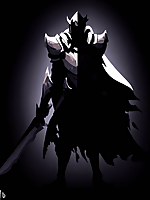
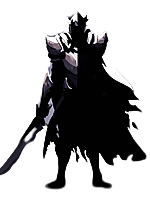
addi game mechanics, death of the hero + add creation hero when account register

diff --git a/src/Controller/api/GameController.php b/src/Controller/api/GameController.php
@@ -586,7 +586,7 @@ class GameController extends CoreApiController
         $data = [
             'currentEvent' => $eventA,
             'npcCurrentEvent' => $arrayNpc,
-            'currentEvent-Ending' => $contentEndingCurrent,
+            'currentEventEnding' => $contentEndingCurrent,
             'EndBiome' => $dataForFront
         ];
 
@@ -706,7 +706,7 @@ class GameController extends CoreApiController
         $data = [
             'currentEvent' => $eventA,
             'npcCurrentEvent' => $arrayNpc,
-            'currentEvent-Ending' => $contentEndingCurrent,
+            'currentEventEnding' => $contentEndingCurrent,
             'EndGame' => $dataForFront
         ];
 
@@ -791,7 +791,9 @@ class GameController extends CoreApiController
     public function eventEffect(
         $id,
         EffectRepository $effectRepository,
-        HeroRepository $heroRepository
+        HeroRepository $heroRepository,
+        EventTypeRepository $eventTypeRepository,
+        EventRepository $eventRepository
     ): JsonResponse {
 
         /** @var App\Entity\User $user */
@@ -801,6 +803,7 @@ class GameController extends CoreApiController
 
         $effect = $effectRepository->findOneBy(['id' => $id]);
 
+        // * Applying Effect to Player ($hero)
         if ($effect->getHealth()) {
             $hero->setHealth($hero->getHealth() + $effect->getHealth());
 
@@ -827,21 +830,30 @@ class GameController extends CoreApiController
             $hero->setXp($hero->getXp() + $effect->getXp());
         }
 
+        // Saving Hero in Database
         $heroRepository->add($hero, true);
 
+        // * Hero Dies, Death Event needed
+        $eventTypeDeath = $eventTypeRepository->findOneBy(['name' => "Death"]);
+        $eventTypeDeathId = $eventTypeDeath->getId();
+        // dd($eventTypeDeathId);
+        $eventDeath = $eventRepository->findOneBy(['eventType' => $eventTypeDeathId]);
+
+        // dd($eventDeath);
+        // * Hero survived the effect or not ?
         if ($hero->getHealth() <= 0) {
+            // * Hero didn't survive the effect, $hero object become a string, $data return $hero + the Death event opening + id
             $hero = 'Vous êtes mort !';
             $data = [
                 'player' => $hero,
-                // 'GameOver' => $eventGameOVer
+                'GameOver' => $eventDeath
             ];
         } else {
+            // * Hero survived the effect, the game goes on
             $data = [
                 'player' => $hero,
             ];
         }
-
-
 
         return $this->json200($data, ["game"]);
 

diff --git a/src/Controller/api/UserApiController.php b/src/Controller/api/UserApiController.php
@@ -97,7 +97,7 @@ class UserApiController extends CoreApiController
             $user->setPassword($hashedPassword);
         }
 
-        $heroClass = $heroClassRepository->findOneBy(['id'=> 1]);
+        $heroClass = $heroClassRepository->findOneBy(['id'=> 2]);
 
         $hero = new Hero();
         $hero->setName($user->getPseudo());
@@ -109,7 +109,7 @@ class UserApiController extends CoreApiController
         $hero->setDefense($heroClass->getDefense());
         $hero->setKarma(rand(0, 10));
         $hero->setXp(0);
-        $hero->setPicture('/images/default-hero-avatar-without-background.png');
+        $hero->setPicture('/images/default-hero-avatar.png');
         $hero->setProgress(0);
         $hero->setHeroClass($heroClass);
         $hero->setUser($user);

diff --git a/src/Entity/Event.php b/src/Entity/Event.php
@@ -58,7 +58,7 @@ class Event
 
     /**
      * @ORM\ManyToOne(targetEntity=Biome::class, inversedBy="events")
-     * @ORM\JoinColumn(nullable=true)
+     * @ORM\JoinColumn(nullable=false)
      * 
      */
     private $biome;
